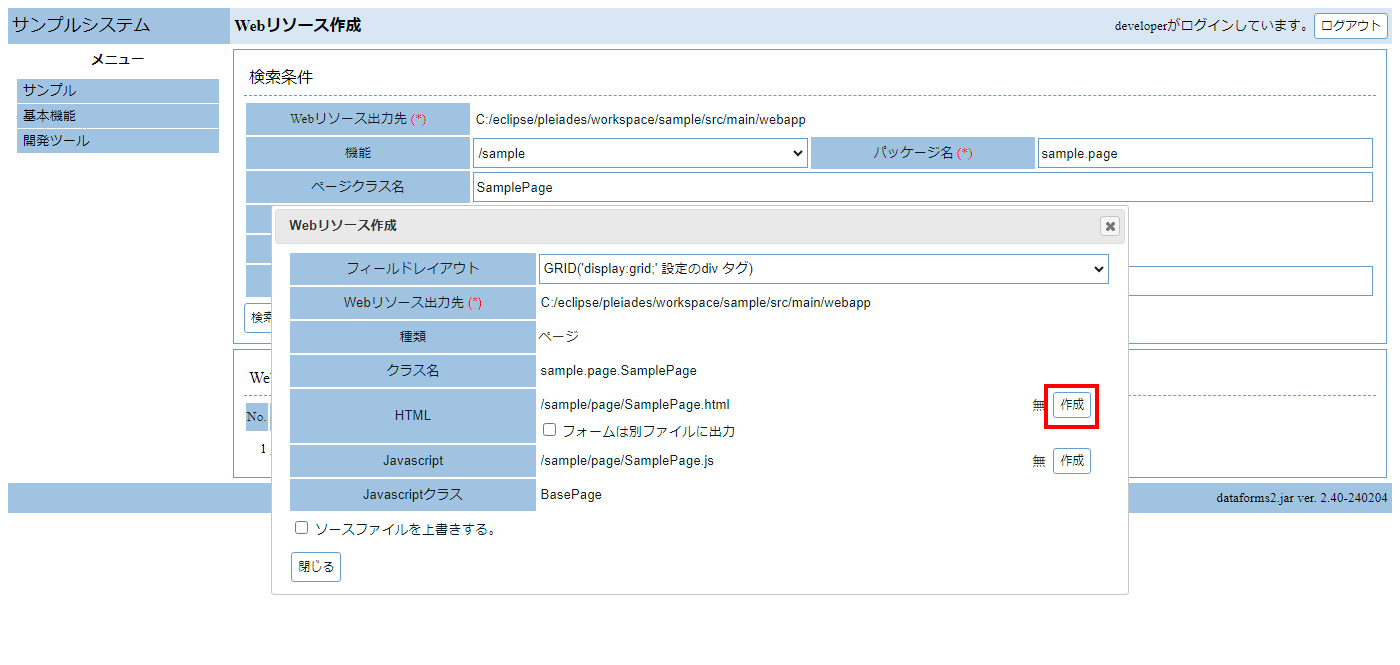
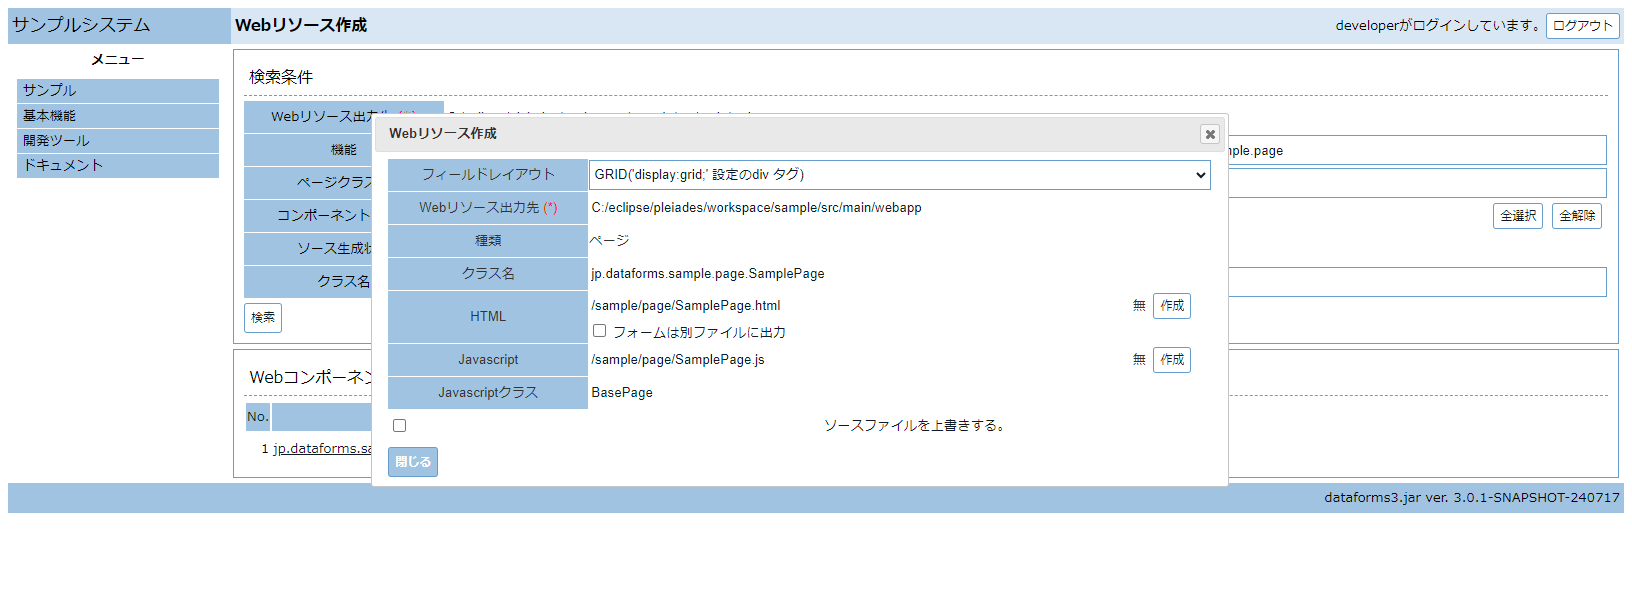
Webリソース作成のダイアログレイアウトの修正。

diff --git a/src/main/java/META-INF/resources/dataforms/devtool/webres/page/WebResourceDialog_ja.html b/src/main/java/META-INF/resources/dataforms/devtool/webres/page/WebResourceDialog_ja.html
@@ -54,7 +54,7 @@
 					<div class="field"><input type="text" id="javascriptClass" /></div>
 				</div>
 				<div class="fieldDiv">
-					<div class="field">
+					<div class="field" style="justify-content: left;">
 						<input type="checkbox" id="forceOverwrite" value="1"/>
 						<label for="forceOverwrite" class="forceOverwrite">ソースファイルを上書きする。</label>
 					</div>

diff --git a/src/main/java/META-INF/resources/dataforms/devtool/webres/page/WebResourceDialog.html b/src/main/java/META-INF/resources/dataforms/devtool/webres/page/WebResourceDialog.html
@@ -54,7 +54,7 @@
 					<div class="field"><input type="text" id="javascriptClass" /></div>
 				</div>
 				<div class="fieldDiv">
-					<div class="field">
+					<div class="field" style="justify-content: left;">
 						<input type="checkbox" id="forceOverwrite" value="1"/>
 						<label for="forceOverwrite" class="forceOverwrite">Overwrite the source file.</label>
 					</div>
